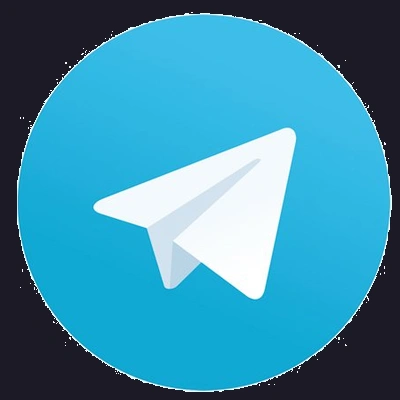
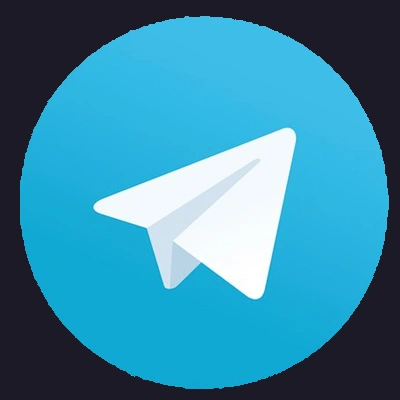
Corrige APION: paiement automatique sur site au lieu de WhatsApp, ajoute le service Telegram, corrige la modale jeu mobile via le chat, nettoie l'icone Telegram

diff --git a/assets/apion-brain.js b/assets/apion-brain.js
@@ -87,7 +87,8 @@ const ApionBrain = (() => {
     category_mobile: /\b(recharger un jeu|jeu mobile|jeux mobile|recharge jeu)\b/,
     category_giftcard: /\b(console|consoles|carte cadeau|cartes cadeau|cartes cadeaux|gift card)\b/,
     category_software: /\b(acheter un logiciel|logiciel|logiciels)\b/,
-    category_streaming: /\b(streaming|abonnement)\b/
+    category_streaming: /\b(streaming|abonnement)\b/,
+    category_services: /\b(service|services|verification|verifier un compte)\b/
   };
 
   function findBestTicket(item, targetAmount){
@@ -104,6 +105,20 @@ const ApionBrain = (() => {
     memory.category = item.category;
     memory.itemRef = item;
 
+    // un seul palier possible (ex: service à prix fixe) -> pas besoin de demander un montant
+    if (item.tickets.length === 1) {
+      const ticket = item.tickets[0];
+      memory.chosenTicket = ticket;
+      saveMemory(memory);
+      return {
+        emoji: item.icon,
+        text: `${item.name} — ${ApionData.formatPrice(ticket.price)}. On valide ?`,
+        ticket: { name: `${item.name}`, price: ApionData.formatPrice(ticket.price), raw: ticket, category: item.category },
+        quickReplies: ["Je valide cette commande"],
+        page: item.page, anchor: item.anchor
+      };
+    }
+
     if (amount) {
       const ticket = findBestTicket(item, amount);
       memory.chosenTicket = ticket;
@@ -111,7 +126,7 @@ const ApionBrain = (() => {
       return {
         emoji: item.icon,
         text: `Très bien, pour ${ApionData.formatPrice(amount)} sur ${item.name}, voici ce qui s'en rapproche le plus :`,
-        ticket: { name: `${item.name} — ${ticket.label}`, price: ApionData.formatPrice(ticket.price), raw: ticket },
+        ticket: { name: `${item.name} — ${ticket.label}`, price: ApionData.formatPrice(ticket.price), raw: ticket, category: item.category },
         quickReplies: ["Je valide cette commande", "Voir tous les montants", "Autre montant"],
         page: item.page, anchor: item.anchor
       };
@@ -151,7 +166,7 @@ const ApionBrain = (() => {
     const methods = ApionData.getPaymentMethods().map(m => `• ${m.name}`).join("\n");
     return {
       emoji: "💳",
-      text: `Nous acceptons :\n${methods}\n\nLe paiement se confirme directement avec l'agent sur WhatsApp au moment de la commande.`,
+      text: `Nous acceptons :\n${methods}\n\nLe paiement se fait directement sur le site : vous cliquez sur "Commander", vous confirmez sur votre téléphone, et c'est validé — pas de carte bancaire ni PayPal pour le moment.`,
       quickReplies: ["🎮 Recharger un jeu", "💬 Contacter WhatsApp"]
     };
   }
@@ -159,7 +174,7 @@ const ApionBrain = (() => {
   function replyDelivery(){
     return {
       emoji: "⚡",
-      text: "La livraison est instantanée dans la grande majorité des cas : entre 5 et 10 minutes selon le produit, directement sur WhatsApp après confirmation du paiement.",
+      text: "La livraison est instantanée dans la grande majorité des cas : entre 5 et 10 minutes après confirmation automatique de votre paiement Mobile Money, envoyée sur WhatsApp ou par email selon ce que vous indiquez à la commande.",
       quickReplies: ["🎮 Recharger un jeu", "💬 Contacter WhatsApp"]
     };
   }
@@ -176,8 +191,8 @@ const ApionBrain = (() => {
   function replyHelp(){
     return {
       emoji: "🤖",
-      text: "Je suis APION, le Gardien Numérique d'Apay. Je connais tout notre catalogue (jeux, consoles, streaming), je me souviens de ce dont on parle, et je peux vous accompagner jusqu'à votre commande sur WhatsApp.",
-      quickReplies: ["🎮 Recharger un jeu", "💻 Acheter un logiciel", "🎬 Streaming", "🎁 Carte cadeau", "💬 Contacter WhatsApp"]
+      text: "Je suis APION, le Gardien Numérique d'Apay. Je connais tout notre catalogue (jeux, consoles, streaming, services), je me souviens de ce dont on parle, et je peux vous accompagner jusqu'au paiement, directement sur le site.",
+      quickReplies: ["🎮 Recharger un jeu", "💻 Acheter un logiciel", "🎬 Streaming", "🎁 Carte cadeau", "✈ Services"]
     };
   }
 
@@ -185,7 +200,7 @@ const ApionBrain = (() => {
     return {
       emoji: "👋",
       text: ApionData.getCopy().greeting,
-      quickReplies: ["🎮 Recharger un jeu", "💻 Acheter un logiciel", "🎬 Streaming", "🎁 Carte cadeau", "💬 Contacter WhatsApp"]
+      quickReplies: ["🎮 Recharger un jeu", "💻 Acheter un logiciel", "🎬 Streaming", "🎁 Carte cadeau", "✈ Services"]
     };
   }
 
@@ -225,6 +240,13 @@ const ApionBrain = (() => {
       quickReplies: ["📄 Microsoft Office", "🎨 Adobe Creative Cloud"]
     };
   }
+  function replyCategoryServices(){
+    return {
+      emoji: "✈",
+      text: "Voici nos services disponibles :",
+      quickReplies: ["✈ Vérification Telegram"]
+    };
+  }
 
   const MOBILE_TAX_RATE = 0.035; // taxe appliquée uniquement aux jeux mobile, comme sur les boutons "Commander" de la page
 
@@ -237,42 +259,27 @@ const ApionBrain = (() => {
       };
     }
     const isMobile = memory.itemRef.category === "mobile";
-
-    // pour les jeux mobile, l'ID en jeu est obligatoire avant de finaliser
-    if (isMobile && !memory.gameId) {
-      memory.awaitingGameId = true;
-      saveMemory(memory);
-      return {
-        emoji: "🎮",
-        text: "Avant de valider, quel est votre ID en jeu (Player ID) ? Précisez aussi le serveur si votre jeu en a un.",
-        quickReplies: []
-      };
-    }
-
     const qty = memory.pendingQty || 1;
     const subtotal = memory.chosenTicket.price * qty;
     const tax = isMobile ? Math.round(subtotal * MOBILE_TAX_RATE) : 0;
     const total = subtotal + tax;
-    const label = `${memory.itemRef.name} ${memory.chosenTicket.label}${qty > 1 ? " x" + qty : ""}`;
+    const singleTicket = memory.itemRef.tickets.length === 1;
+    const label = singleTicket
+      ? `${memory.itemRef.name}${qty > 1 ? " x" + qty : ""}`
+      : `${memory.itemRef.name} ${memory.chosenTicket.label}${qty > 1 ? " x" + qty : ""}`;
 
     let text = `Excellente nouvelle !\nVotre commande est prête : ${label}`;
     text += isMobile
-      ? ` pour ${ApionData.formatPrice(total)} TTC (taxe 3,5% incluse).\nID en jeu : ${memory.gameId}`
-      : ` pour ${ApionData.formatPrice(total)}.`;
-    text += "\nJe vous transmets sur WhatsApp pour finaliser le paiement.";
+      ? ` pour ${ApionData.formatPrice(total)} TTC (taxe 3,5% incluse).\nCliquez sur "Commander" ci-dessous : la page vous demandera votre ID en jeu et votre numéro Mobile Money pour payer directement.`
+      : ` pour ${ApionData.formatPrice(total)}.\nCliquez sur "Commander" ci-dessous pour payer directement en Mobile Money.`;
 
-    const orderLabel = isMobile ? `${label} — ID: ${memory.gameId}` : label;
-
-    // on repart à zéro sur l'attente d'ID pour une prochaine commande éventuelle
-    memory.awaitingGameId = false;
     saveMemory(memory);
 
     return {
       emoji: "🎉",
       text,
-      order: { label: orderLabel, price: ApionData.formatPrice(total) },
-      quickReplies: ["💬 Ouvrir WhatsApp"],
-      forceWhatsapp: true
+      ticket: { name: label, price: ApionData.formatPrice(total), category: memory.itemRef.category },
+      quickReplies: ["🎮 Recharger un jeu", "🎬 Streaming"]
     };
   }
 
@@ -291,20 +298,6 @@ const ApionBrain = (() => {
   // ---------------- Détection d'intention + génération de réponse ----------------
   function resolve(userText){
     const normText = normalize(userText);
-
-    // si on vient de demander l'ID en jeu, le message suivant EST la réponse
-    // (sauf si le client change d'avis et annule)
-    if (memory.awaitingGameId) {
-      if (/^(non|annul\w*|laisse tomber|pas maintenant)\b/.test(normText)) {
-        memory.awaitingGameId = false; memory.chosenTicket = null; memory.pendingQty = null;
-        saveMemory(memory);
-        return { emoji: "😕", text: "Aucun souci, commande annulée. Que recherchez-vous ?", quickReplies: ["🎮 Recharger un jeu", "🎬 Streaming"] };
-      }
-      memory.gameId = userText.trim();
-      memory.awaitingGameId = false;
-      saveMemory(memory);
-      return replyOrderConfirmed();
-    }
 
     // intentions courtes / mots-clés prioritaires
     for (const [intent, pattern] of Object.entries(INTENT_PATTERNS)) {
@@ -328,6 +321,7 @@ const ApionBrain = (() => {
           case "category_giftcard": return replyCategoryGiftcards();
           case "category_software": return replyCategorySoftware();
           case "category_streaming": return replyCategoryStreaming();
+          case "category_services": return replyCategoryServices();
         }
       }
     }
@@ -341,7 +335,7 @@ const ApionBrain = (() => {
         return {
           emoji: memory.itemRef.icon,
           text: `Parfait : ${memory.itemRef.name} — ${exact.label} pour ${ApionData.formatPrice(exact.price)}. On valide ?`,
-          ticket: { name: `${memory.itemRef.name} — ${exact.label}`, price: ApionData.formatPrice(exact.price) },
+          ticket: { name: `${memory.itemRef.name} — ${exact.label}`, price: ApionData.formatPrice(exact.price), category: memory.itemRef.category },
           quickReplies: ["Je valide cette commande", "Voir tous les montants", "Autre montant"]
         };
       }

diff --git a/assets/apion-data.js b/assets/apion-data.js
@@ -177,6 +177,14 @@ const ApionData = (() => {
         { label: "Adobe CC 3 Mois", price: 20000 },
         { label: "Adobe CC 12 Mois", price: 65000 }
       ]
+    },
+    telegram: {
+      name: "Vérification de compte Telegram", icon: "✈", category: "services",
+      currency: "Service", page: "services.html", anchor: "#telegram",
+      delivery: "quelques minutes",
+      tickets: [
+        { label: "Vérification compte Telegram", price: 1000 }
+      ]
     }
   };
 
@@ -192,9 +200,7 @@ const ApionData = (() => {
 
   const PAYMENT_METHODS = [
     { key: "mtn",    name: "MTN Mobile Money" },
-    { key: "airtel", name: "Airtel Money" },
-    { key: "carte",  name: "Carte bancaire" },
-    { key: "paypal", name: "PayPal" }
+    { key: "airtel", name: "Airtel Money" }
   ];
 
   // ---- Synonymes / alias -> clé canonique du catalogue ou de KNOWN_NOT_LISTED ----
@@ -228,7 +234,10 @@ const ApionData = (() => {
     "office": "office", "microsoft office": "office", "word": "office", "excel": "office",
     "antivirus": "antivirus",
     "adobe": "adobe", "photoshop": "adobe", "illustrator": "adobe",
-    "canva": "canva"
+    "canva": "canva",
+    // Telegram
+    "telegram": "telegram", "tg": "telegram", "compte telegram": "telegram",
+    "verification telegram": "telegram", "verifier telegram": "telegram"
   };
 
   const QUANTITY_WORDS = {
@@ -241,7 +250,7 @@ const ApionData = (() => {
 
   const COPY = {
     greeting:
-      "👋 Bonjour et bienvenue sur Apay.\nJe suis APION, le Gardien Numérique d'Apay.\nJe peux vous aider à trouver un produit, répondre à vos questions ou vous guider jusqu'à votre commande.\nQue recherchez-vous aujourd'hui ?",
+      "👋 Bonjour et bienvenue sur Apay.\nJe suis APION, le Gardien Numérique d'Apay.\nJe peux vous aider à trouver un produit et vous accompagner jusqu'au paiement, directement sur le site.\nQue recherchez-vous aujourd'hui ?",
     quickActionsIntro: "Vous pouvez aussi choisir directement :",
     thinkingLabel: "APION réfléchit…"
   };

diff --git a/assets/apion-ui.js b/assets/apion-ui.js
@@ -82,7 +82,12 @@ document.addEventListener("DOMContentLoaded", () => {
         <button type="button" class="ap-tc-buy">Commander</button>
       `;
       card.querySelector(".ap-tc-buy").addEventListener("click", () => {
-        if (typeof orderItem === "function") orderItem(response.ticket.name, response.ticket.price);
+        const isMobile = response.ticket.category === "mobile";
+        if (isMobile && typeof openOrderModal === "function") {
+          openOrderModal(response.ticket.name, response.ticket.price);
+        } else if (typeof orderItem === "function") {
+          orderItem(response.ticket.name, response.ticket.price);
+        }
       });
       bubbleWrap.appendChild(card);
     }
@@ -102,13 +107,10 @@ document.addEventListener("DOMContentLoaded", () => {
     scrollToBottom();
     renderQuickReplies(response.quickReplies || []);
 
-    if (response.forceWhatsapp || response.order) {
-      const label = response.order ? response.order.label : (ApionBrain.getMemory().product || "un produit Apay");
-      const price = response.order ? response.order.price : "";
+    if (response.forceWhatsapp) {
+      const label = ApionBrain.getMemory().product || "un produit Apay";
       setTimeout(() => {
-        const msg = price
-          ? `Salut Apay Digital CG ! Je veux commander : ${label} (${price}).`
-          : `Salut Apay Digital CG ! ${label !== "un produit Apay" ? "Je m'intéresse à : " + label + "." : "J'ai besoin d'aide pour commander."}`;
+        const msg = `Salut Apay Digital CG ! ${label !== "un produit Apay" ? "Je m'intéresse à : " + label + "." : "J'ai besoin d'aide."}`;
         window.open(waLink(msg), "_blank", "noopener");
       }, 500);
     }
